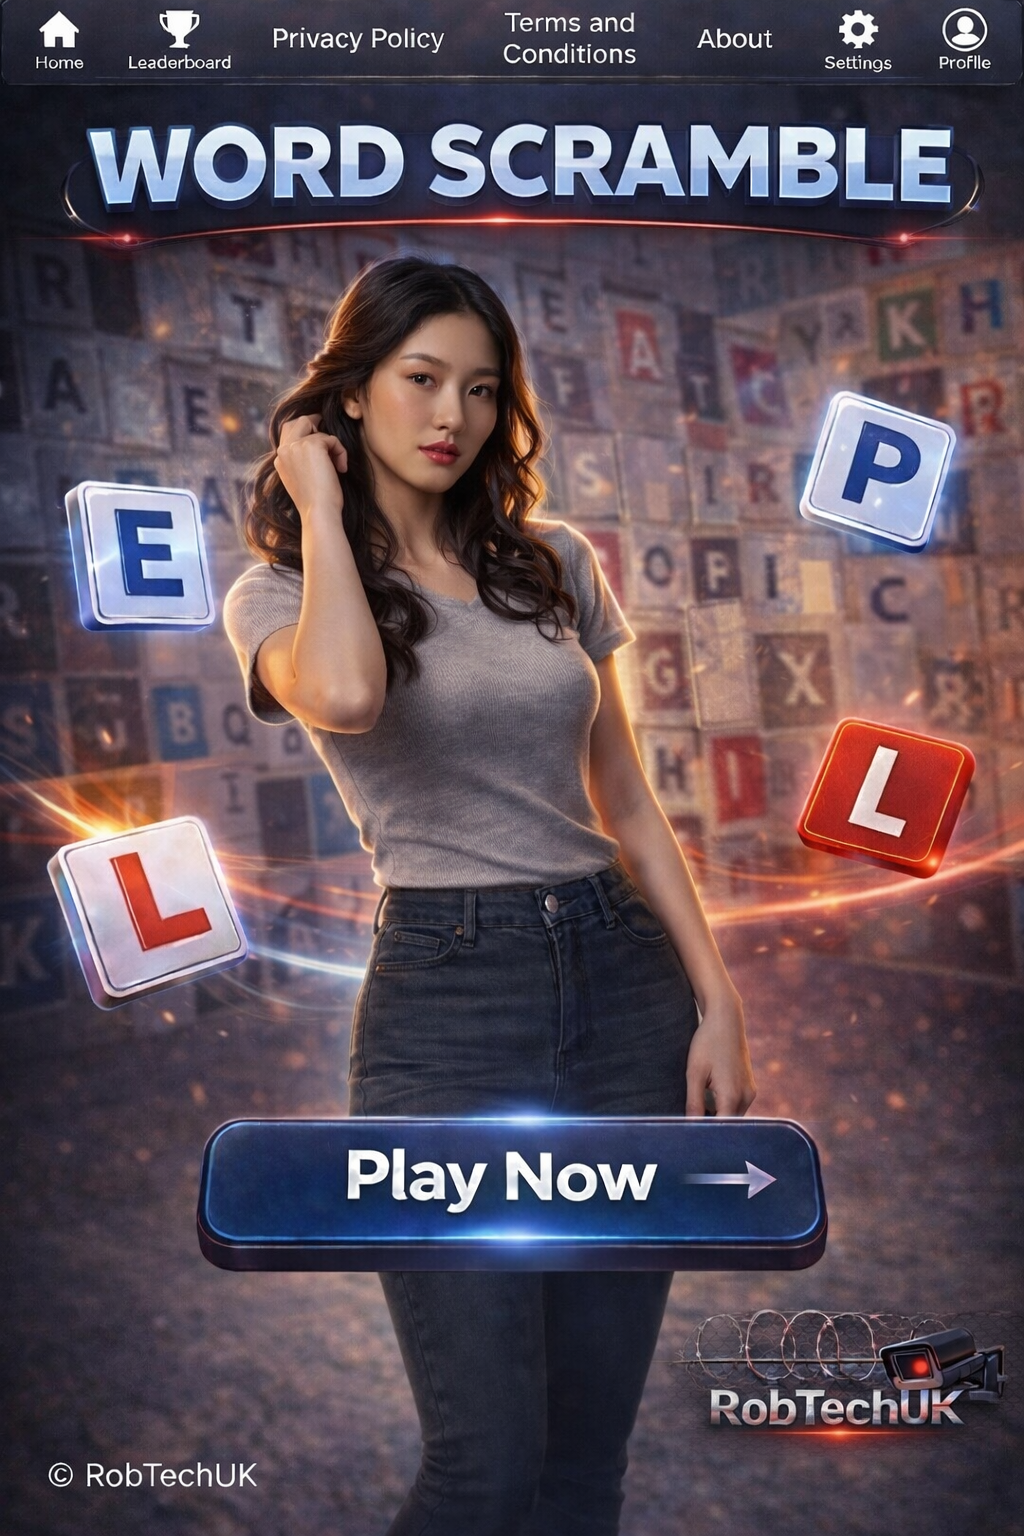
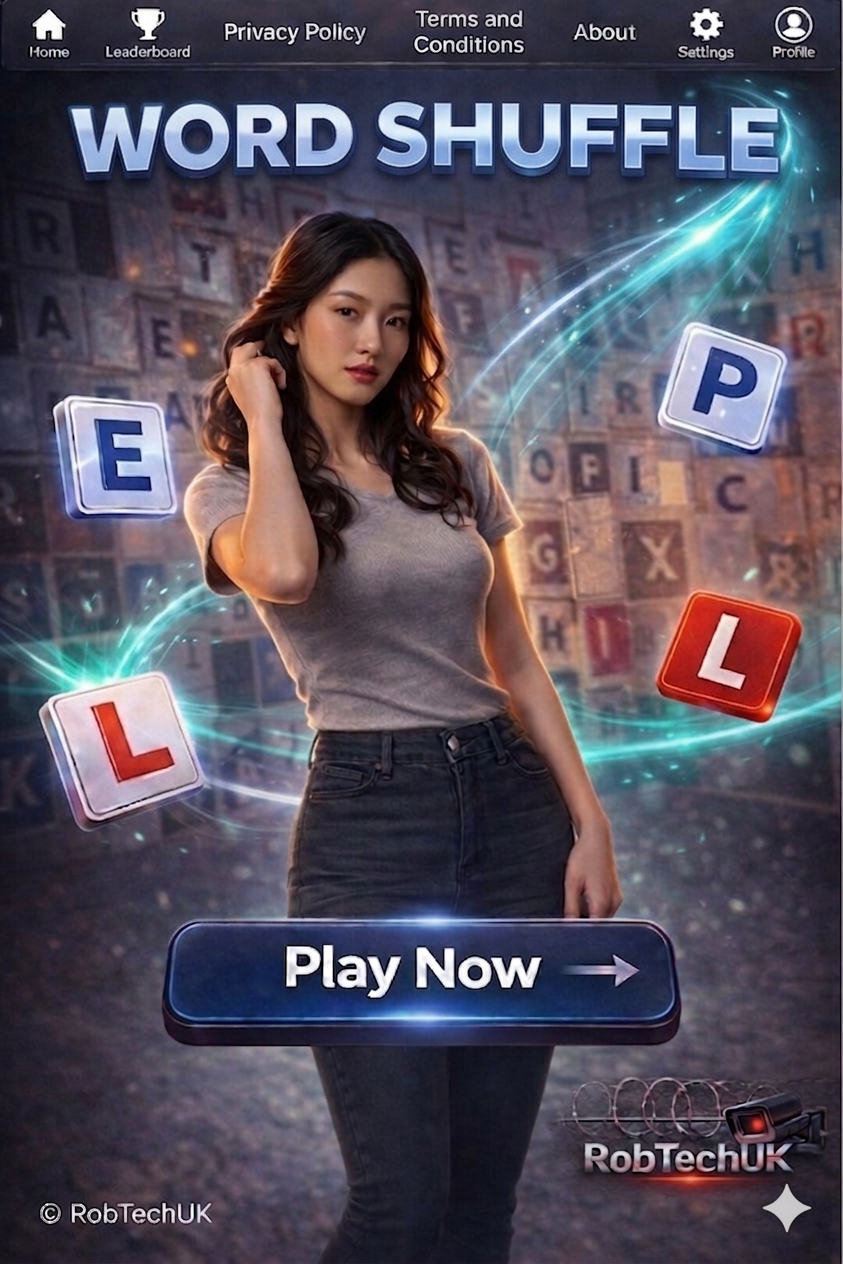
Add files via upload

diff --git a/style.css b/style.css
@@ -148,3 +148,58 @@ button:active {
 #endContent h2 {
   margin-bottom: 20px;
 }
+/* General screen setup */
+.screen {
+  display: none;
+  position: relative;
+  width: 100%;
+  height: 100vh;
+}
+
+.screen.active {
+  display: block;
+}
+
+/* Background images */
+.bg-image {
+  width: 100%;
+  height: 100vh;
+  object-fit: cover;
+}
+
+/* Play button (home screen) */
+.play-btn {
+  position: absolute;
+  bottom: 15%;
+  left: 50%;
+  transform: translateX(-50%);
+  padding: 15px 40px;
+  font-size: 20px;
+  background: green;
+  color: white;
+  border: none;
+  border-radius: 10px;
+}
+
+/* Rules title */
+.rules-title {
+  position: absolute;
+  top: 20%;
+  width: 100%;
+  text-align: center;
+  color: white;
+}
+
+/* Start button */
+.start-btn {
+  position: absolute;
+  bottom: 15%;
+  left: 50%;
+  transform: translateX(-50%);
+  padding: 15px 40px;
+  font-size: 20px;
+  background: green;
+  color: white;
+  border: none;
+  border-radius: 10px;
+}

diff --git a/index.html b/index.html
@@ -9,7 +9,28 @@
 </head>
 
 <body>
+<!-- HOME SCREEN -->
+<div id="home-screen" class="screen active">
+  <img src="homepage.jpg" class="bg-image">
 
+  <button class="play-btn" onclick="showRules()">PLAY NOW</button>
+</div>
+
+<!-- RULES SCREEN -->
+<div id="rules-screen" class="screen">
+  <img src="background.jpg" class="bg-image">
+
+  <h2 class="rules-title">How To Play</h2>
+
+  <!-- Leave blank for now -->
+  
+  <button class="start-btn" onclick="startGame()">START GAME</button>
+</div>
+
+<!-- GAME SCREEN -->
+<div id="game-screen" class="screen">
+  <!-- Your existing game goes here -->
+</div>
   <div id="gameContainer">
 
     <!-- TOP BAR -->

diff --git a/game.js b/game.js
@@ -355,3 +355,17 @@ playAgainBtn.onclick = resetGame;
 
 // INIT
 resetGame();
+function showRules() {
+  document.getElementById("home-screen").classList.remove("active");
+  document.getElementById("rules-screen").classList.add("active");
+}
+
+function startGame() {
+  document.getElementById("rules-screen").classList.remove("active");
+  document.getElementById("game-screen").classList.add("active");
+
+  // Only call this if your game has a start function
+  if (typeof startGameLogic === "function") {
+    startGameLogic();
+  }
+}
